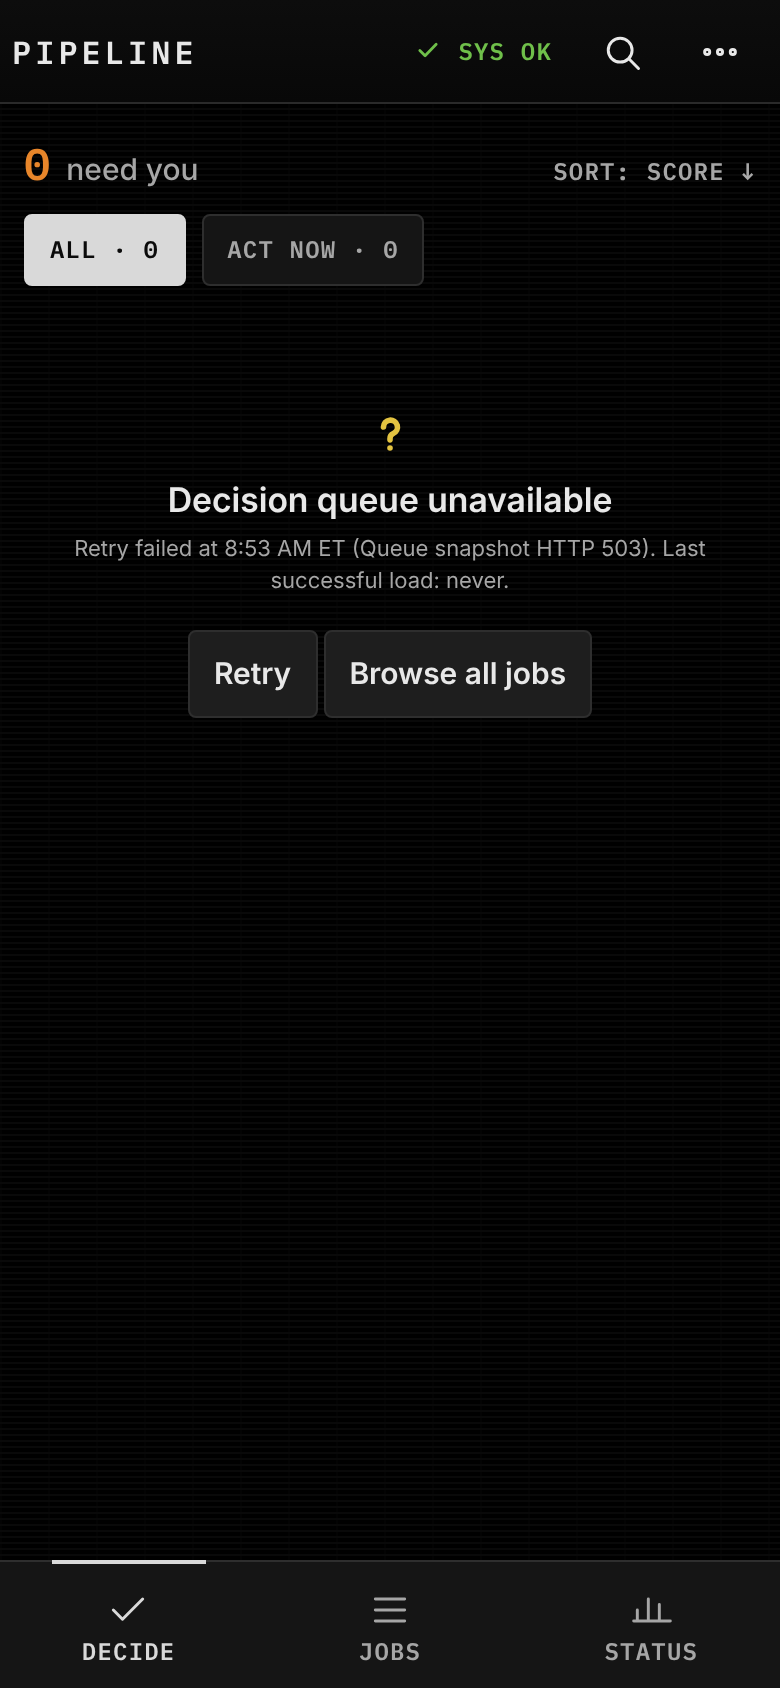
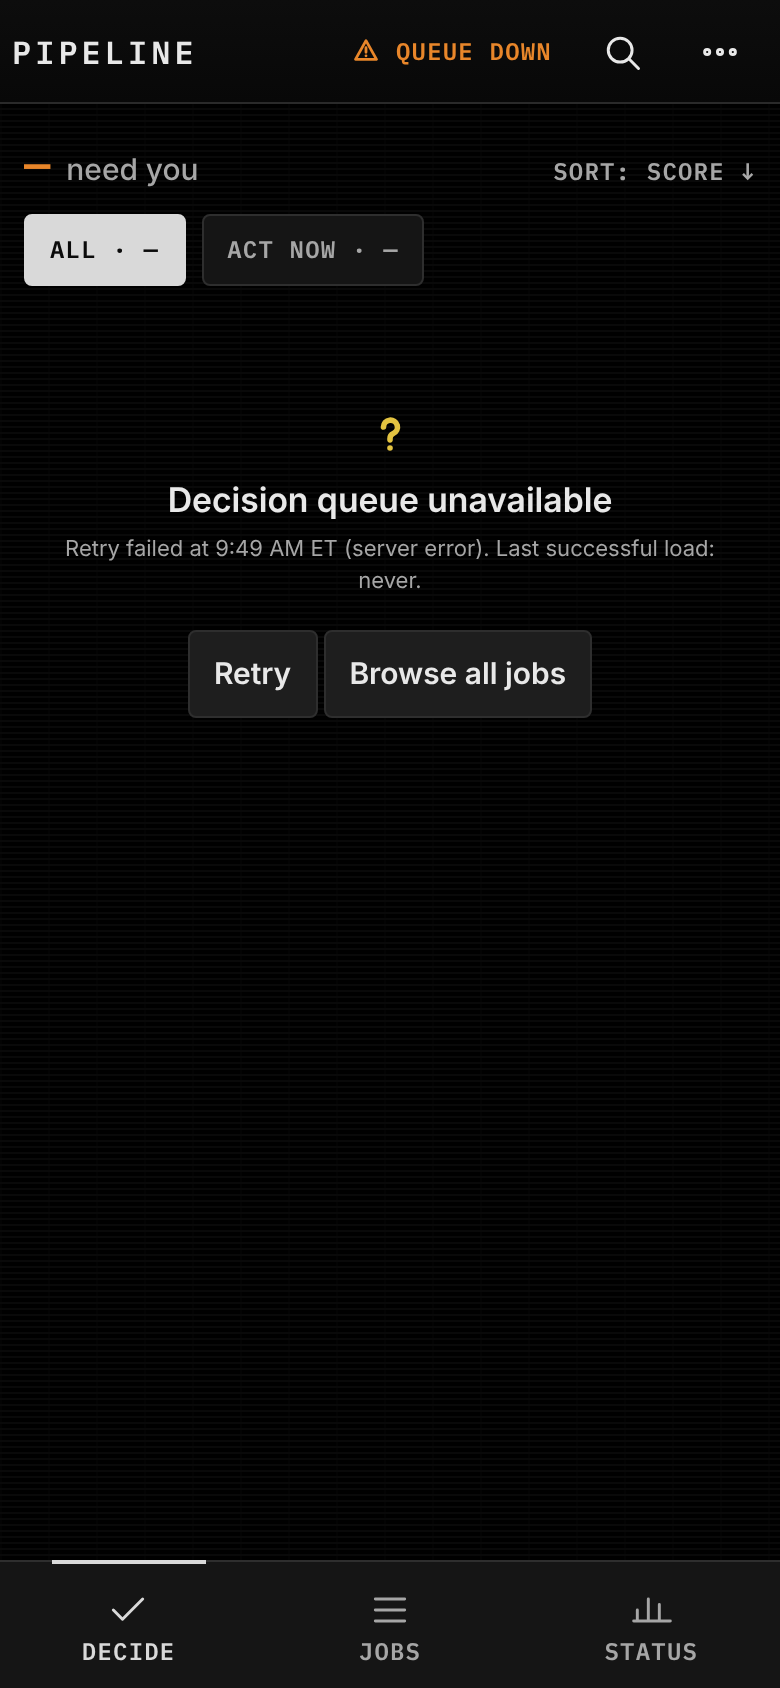
Claude MOBILE-STAGE5-REVIEW-20261102: queue display screenshots (80c75e7)
QUEUE DOWN with dash counts, QUEUE STALE with the short banner, the failed-retry
banner, and a 70+ fit close-up. README notes the fixes.

Claude-Session: https://claude.ai/code/session_01UMkZ78jYWNzDpJeLqYKAku

diff --git a/receipts/mobile-redesign-20261102/README.md b/receipts/mobile-redesign-20261102/README.md
@@ -1,6 +1,6 @@
 # Mobile redesign screenshots: Stage 5 review (2026-11-02)
 
-For Grok Bot GUI and Tim. Branch `feat/mobile-pipeline-explorer` at `7135638`, PR tpruittguitar/foreman-cockpit#253 (draft).
+For Grok Bot GUI and Tim. Branch `feat/mobile-pipeline-explorer` at `80c75e7`, PR tpruittguitar/foreman-cockpit#253 (draft).
 Taken in a Claude Code cloud session on scrubbed test data (company names are placeholders), with a local test server and a
 local stand-in for the Writer. All traffic to the production Writer was blocked, and the block was checked before any run.
 
@@ -15,6 +15,13 @@ Direct image links: `https://raw.githubusercontent.com/tpruittguitar/forge-coord
   Test: `tests/mobile-act-now.browser.js` (Shield AI first, Memphis out, a decided role out at once and after a reload).
 - **Fit glyph** (`7135638`). Fits of 70+ are green "✓ Fit 79" (table "✓ 79"), so every fit badge has a glyph.
 - All phone screenshots below were retaken at `7135638`.
+
+## Queue display fixes (`80c75e7`, Tim's Stage 5 review)
+- Queue failed to load: "— need you", chips "All · —" / "Act now · —"; header "⚠ QUEUE DOWN" in orange. See `stage5-retry-failed-390x844.png`.
+- Older queue shown after a failed refresh: header "? QUEUE STALE" in yellow; banner "Showing queue from 9:49 AM ET. Refresh failed (server error). Retry".
+  See `stage5-queue-stale-390x844.png`. After a failed retry the banner says "Retry failed at … ET (server error)" (`stage5-retry-stale-failed-390x844.png`).
+- Strong fit close-up: `stage5-fit-strong-card-390.png` ("✓ Fit 79" in green beside "? — est. pending").
+- Times in these screenshots are the test run's clock in ET.
 
 ## Why some banners show (test data, not live state)
 - **"✕ SYS FAULT"** in the phone header: the test serves no health or incident feed.
